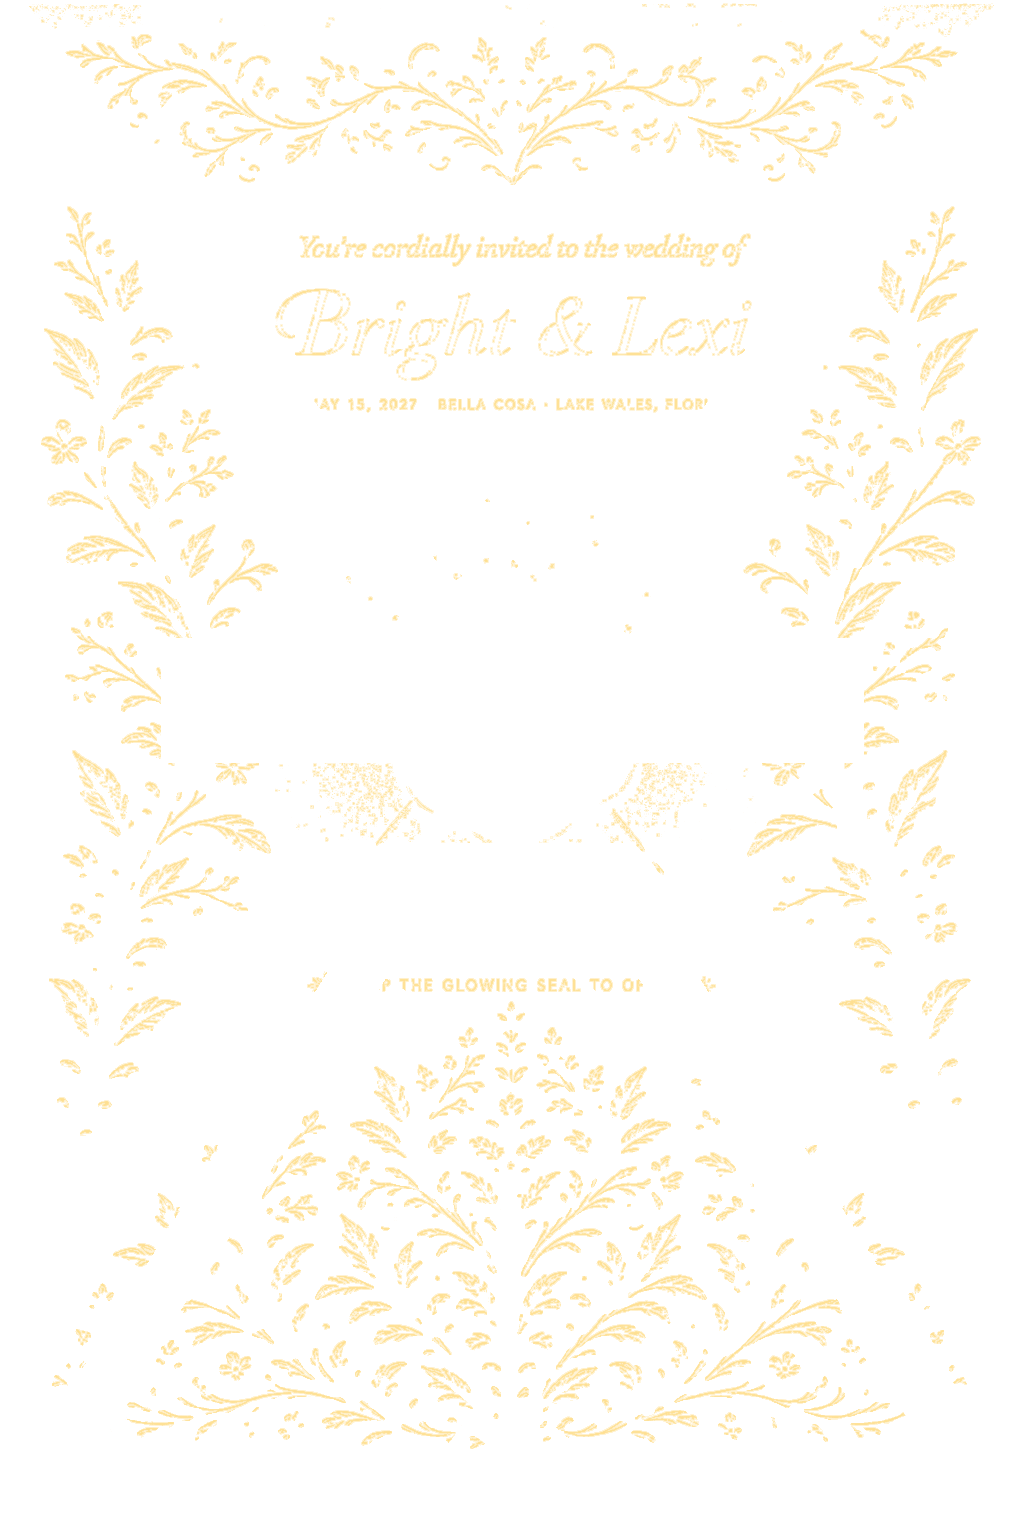
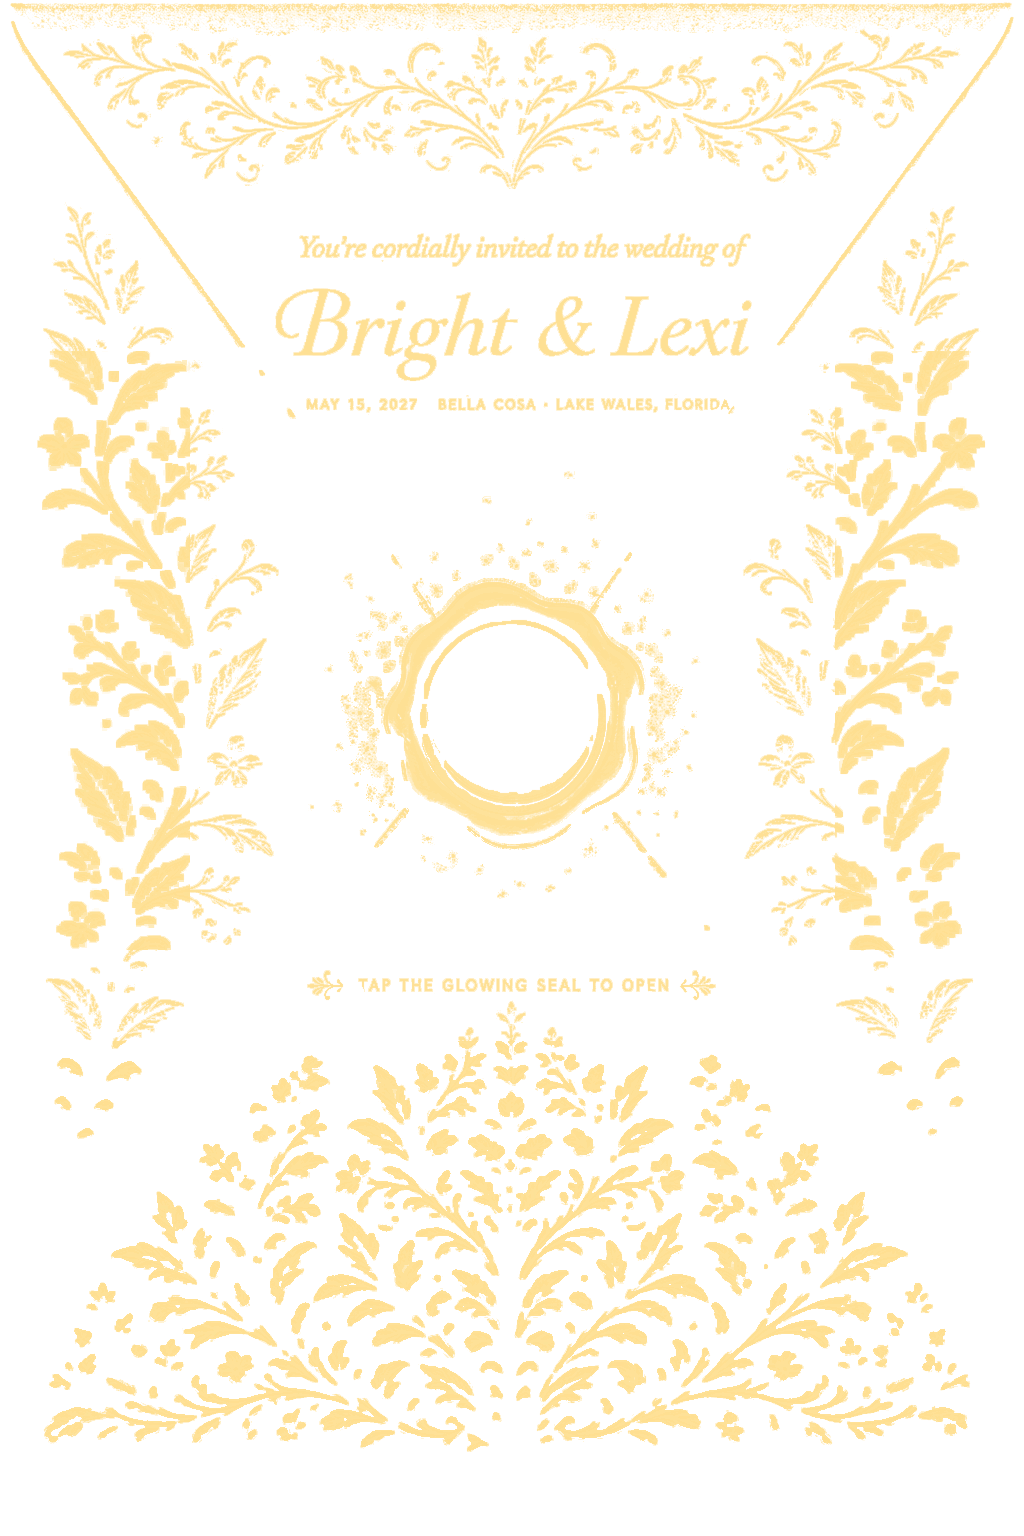
Restore glow near seal and fill bottom floral gaps
Shrink the floral glow seal punch so side vines illuminate next to the
wax seal, rebuild the glow mask with narrow crease removal only, boost
bottom/side-vine coverage, and widen CSS seal/floral reveal masks for a
fuller halo without bringing back paper glitter.

diff --git a/app/globals.css b/app/globals.css
@@ -396,10 +396,10 @@
     -webkit-mask-image: radial-gradient(
       circle,
       #000 0%,
-      #000 48%,
-      transparent 70%
+      #000 72%,
+      transparent 100%
     );
-    mask-image: radial-gradient(circle, #000 0%, #000 48%, transparent 70%);
+    mask-image: radial-gradient(circle, #000 0%, #000 72%, transparent 100%);
     -webkit-mask-repeat: no-repeat;
     mask-repeat: no-repeat;
     -webkit-mask-position: var(--intro-seal-x, 49.91%) var(--intro-seal-y, 46.08%);
@@ -513,10 +513,10 @@
     -webkit-mask-image: radial-gradient(
       circle,
       #000 0%,
-      #000 58%,
-      transparent 78%
+      #000 68%,
+      transparent 92%
     );
-    mask-image: radial-gradient(circle, #000 0%, #000 58%, transparent 78%);
+    mask-image: radial-gradient(circle, #000 0%, #000 68%, transparent 92%);
     -webkit-mask-repeat: no-repeat;
     mask-repeat: no-repeat;
     -webkit-mask-position: var(--intro-seal-x, 49.91%) var(--intro-seal-y, 46.08%);
@@ -533,11 +533,11 @@
   }
 
   .intro-monogram-glow.is-lit {
-    opacity: 0.92;
-    filter: brightness(1.05) saturate(1.05);
+    opacity: 0.96;
+    filter: brightness(1.08) saturate(1.08);
     /* Wide enough to cover the full wax disc in the master art */
-    -webkit-mask-size: 36% 26%;
-    mask-size: 36% 26%;
+    -webkit-mask-size: 42% 30%;
+    mask-size: 42% 30%;
   }
 
   /* Idle twinkle on the full seal before the first tap */
@@ -567,16 +567,16 @@
   .intro-seal-wrap.is-idle-twinkle .intro-seal-idle-aura,
   .intro-seal-wrap.is-seal-lit .intro-seal-idle-aura {
     position: absolute;
-    inset: -8%;
+    inset: -14%;
     border-radius: 50%;
     pointer-events: none;
     /* Soft seal halo only — no glitter spray on the paper */
     background:
       radial-gradient(
         circle,
-        rgb(236 204 118 / 0.28) 0%,
-        rgb(220 186 96 / 0.12) 42%,
-        transparent 68%
+        rgb(236 204 118 / 0.34) 0%,
+        rgb(220 186 96 / 0.16) 46%,
+        transparent 72%
       );
   }
 
